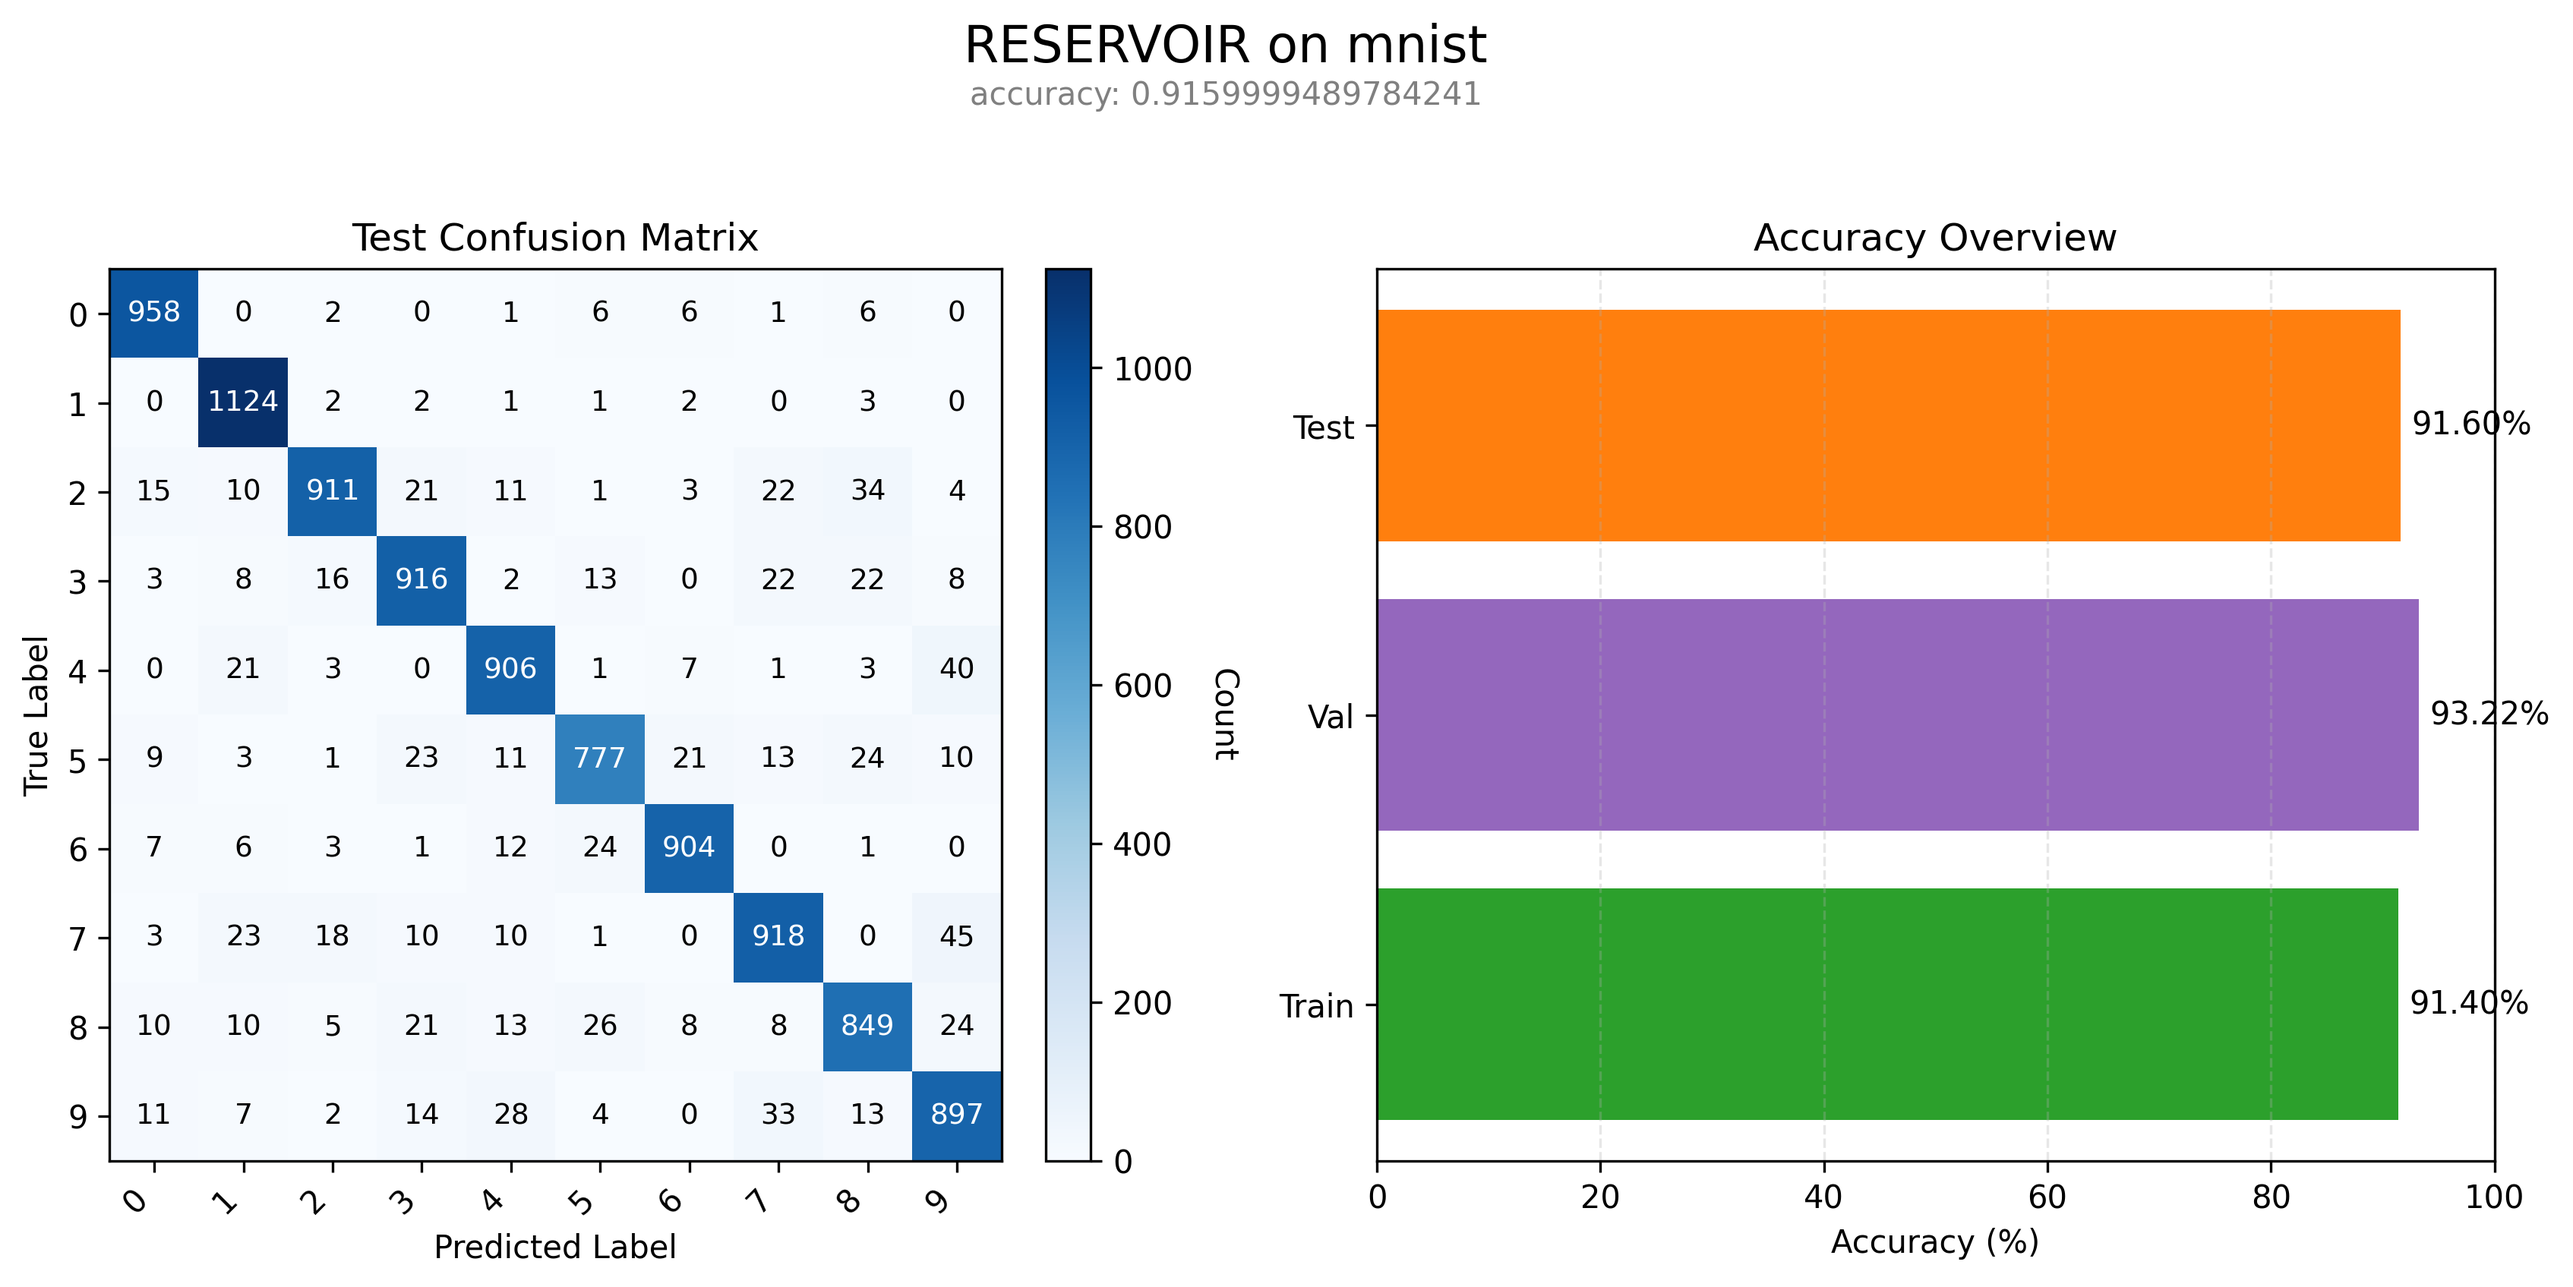
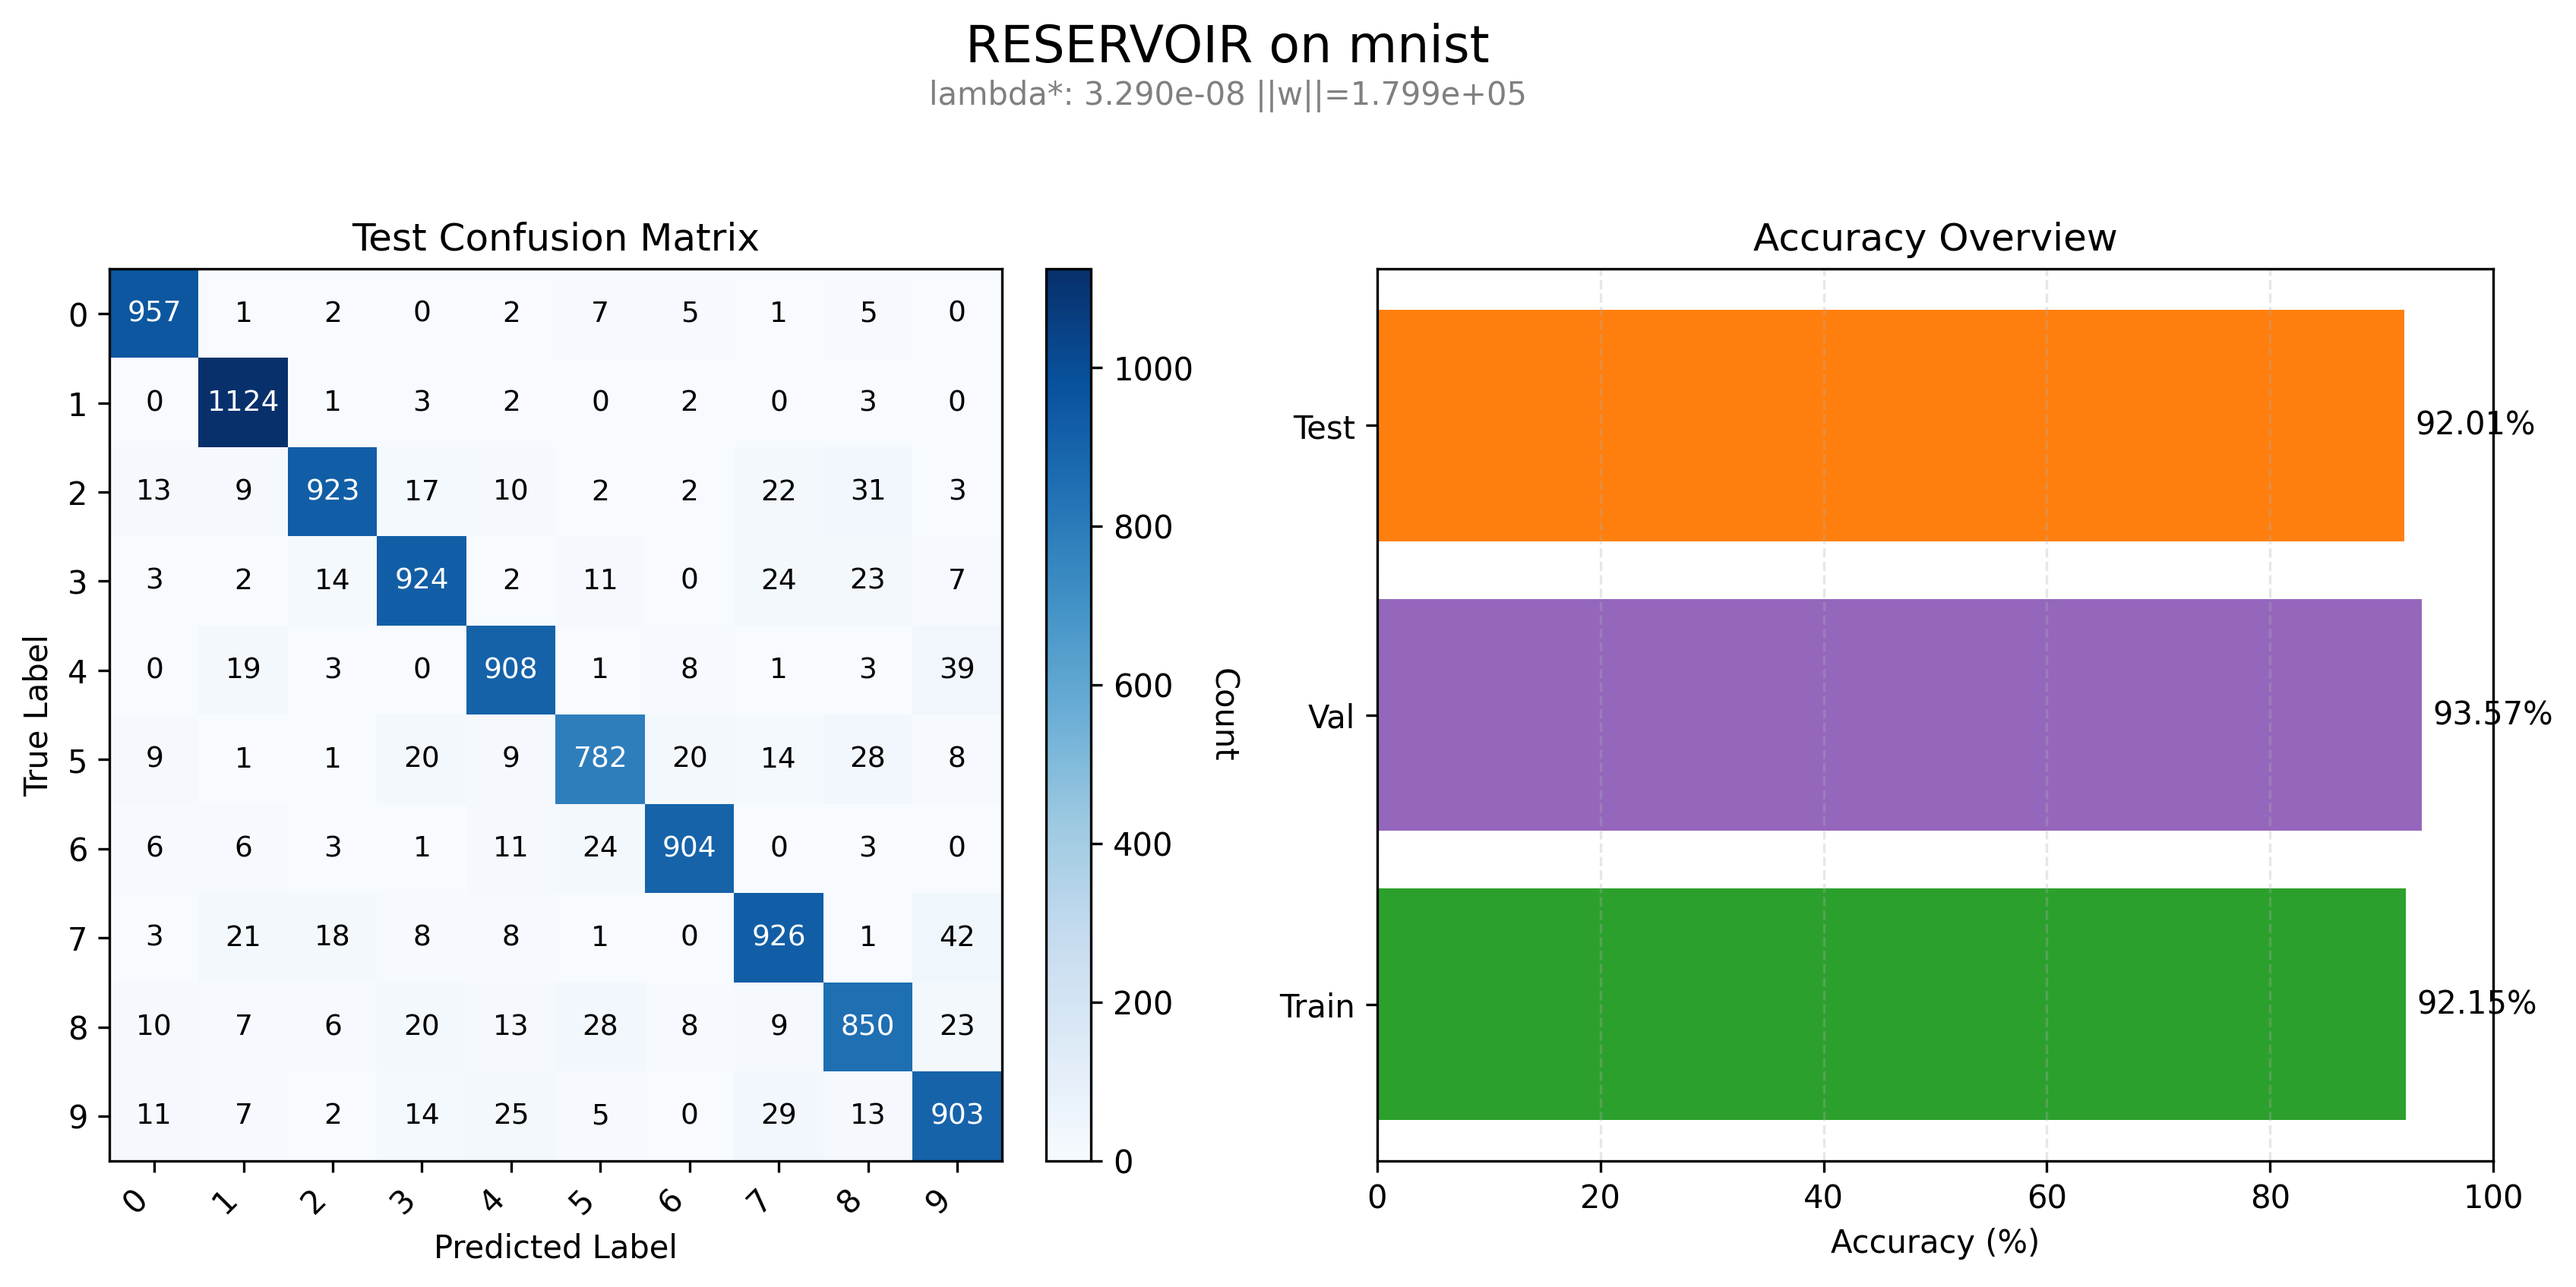
ridge search fixed. with LU solve

diff --git a/src/reservoir/components/readout/ridge.py b/src/reservoir/components/readout/ridge.py
@@ -79,9 +79,37 @@ class RidgeRegression(ReadoutModule):
         eye = jnp.eye(XtX.shape[0], dtype=XtX.dtype)
 
         def solve_lambda(lam: jnp.ndarray) -> jnp.ndarray:
-            return jax.scipy.linalg.solve(XtX + lam * eye, Xty, assume_a="pos")
+            # ラムダが小さすぎる場合は pinv (擬似逆行列) を使うロジックを追加
+            # あるいは、try-except的な動きをさせる
 
-        weights_all = jax.vmap(solve_lambda, in_axes=0, out_axes=0)(lambdas_arr)
+            # 方法A: 条件分岐 (JAXのjit内だとifは使えないので、whereを使うか、Pythonループならifが使える)
+            # 今回はPythonループに変更したので if が使えます
+            lam_val = float(lam)
+            if lam_val < 1e-7:  # 閾値は適宜調整
+                # 正則化なしに近い場合は擬似逆行列で解く（安定するが遅い）
+                # XtX + lam*I の逆行列ではなく、Xそのもののpinvを使うのが一般的ですが
+                # ここでは簡易的に「解けなかったら0」や「コレスキー分解失敗回避」などを想定します
+
+                # JAXで最も安定しているのは jnp.linalg.solve (LU分解) ですが
+                # 特異行列には pinv が最強です。ただし pinv は (XtX) ではなく X に対して行うのが普通です。
+
+                # 簡易対策: Cholesky(pos) ではなく LU分解(solve) を試す
+                return jax.scipy.linalg.solve(XtX + lam * eye, Xty)  # assume_a="pos" を外す
+            else:
+                return jax.scipy.linalg.solve(XtX + lam * eye, Xty, assume_a="pos")
+
+
+        # --- 【修正前】 vmapで一括解決 ---
+        # weights_all = jax.vmap(solve_lambda, in_axes=0, out_axes=0)(lambdas_arr)
+
+        # --- 【修正後】 Pythonループで1つずつ解く ---
+        weights_list = []
+        for lam in lambdas_arr:
+            # 1つ解く -> メモリ解放 を繰り返すことでピークメモリを抑える
+            w = solve_lambda(lam)
+            weights_list.append(w)
+
+        weights_all = jnp.stack(weights_list)
         preds_all = jnp.einsum("nd,kdo->kno", X_val, weights_all)
 
         if metric == "accuracy":
@@ -110,34 +138,6 @@ class RidgeRegression(ReadoutModule):
             self.intercept_ = self.intercept_.ravel()
         self.ridge_lambda = best_lambda
         return best_lambda, search_history, weight_norms
-
-    def fit(self, states: jnp.ndarray, targets: jnp.ndarray) -> "RidgeRegression":
-        X_train, y, y_is_1d = self._prepare_xy(states, targets, update_dim=True)
-
-        if self.ridge_lambda < 1e-7: # Moore-Penrose pseudo-inverse
-            w = jnp.linalg.pinv(X_train, rcond=None) @ y
-        else:
-            XT = X_train.T
-            XTX = XT @ X_train
-            XTy = XT @ y
-            diag_idx = jnp.diag_indices(XTX.shape[0])
-            XTX = XTX.at[diag_idx].add(self.ridge_lambda)
-            try: #  ridge regression closed-form solution
-                w = jax.scipy.linalg.solve(XTX, XTy, assume_a="pos")
-            except Exception: #LU 分解
-                w = jnp.linalg.solve(XTX, XTy)
-
-
-        if self.use_intercept:
-            self.intercept_ = w[0]
-            self.coef_ = w[1:]
-        else:
-            self.intercept_ = jnp.zeros(w.shape[1], dtype=w.dtype)
-            self.coef_ = w
-        if y_is_1d:
-            self.coef_ = self.coef_.ravel()
-            self.intercept_ = self.intercept_.ravel()
-        return self
 
     def predict(self, states: jnp.ndarray) -> jnp.ndarray:
         if self.coef_ is None:

diff --git a/pipelines/run.py b/pipelines/run.py
@@ -522,6 +522,28 @@ def run_pipeline(
                 if val_pred_np.ndim > 1:
                     val_pred_np = np.argmax(val_pred_np, axis=-1)
 
+            selected_lambda = None
+            lambda_norm = None
+            if isinstance(train_res, dict):
+                selected_lambda = train_res.get("best_lambda")
+                weight_norms = train_res.get("weight_norms") or {}
+                if selected_lambda is not None:
+                    lambda_norm = weight_norms.get(selected_lambda)
+                    if lambda_norm is None:
+                        lambda_norm = weight_norms.get(float(selected_lambda))
+            if lambda_norm is None and hasattr(readout, "coef_"):
+                coef_arr = getattr(readout, "coef_", None)
+                if coef_arr is not None:
+                    components = [np.asarray(coef_arr).ravel()]
+                    intercept_arr = getattr(readout, "intercept_", None)
+                    if intercept_arr is not None:
+                        components.append(np.asarray(intercept_arr).ravel())
+                    if components:
+                        stacked = np.concatenate(components)
+                        if stacked.size > 0:
+                            lambda_norm = float(np.linalg.norm(stacked))
+
+            metrics_payload = dict(results.get("test", {})) if isinstance(results, dict) else {}
 
             filename = f"outputs/{dataset_name}/{'_'.join(filename_parts)}_confusion.png"
             plot_classification_results(
@@ -533,7 +555,9 @@ def run_pipeline(
                 val_predictions=val_pred_np,
                 title=f"{model_type.upper()} on {dataset_name}",
                 filename=filename,
-                metrics_info=results.get("test", {}),
+                metrics_info=metrics_payload,
+                best_lambda=selected_lambda,
+                lambda_norm=lambda_norm,
             )
 
     return results

diff --git a/pipelines/plotting.py b/pipelines/plotting.py
@@ -42,8 +42,13 @@ def plot_classification_results(
     class_names: Optional[Sequence[str]] = None,
     val_labels: Optional[np.ndarray] = None,
     val_predictions: Optional[np.ndarray] = None,
+    best_lambda: Optional[float] = None,
+    lambda_norm: Optional[float] = None,
 ) -> None:
-    """Visualize classification results with confusion matrix and accuracy bars, with optional validation."""
+    """
+    Visualize classification results with confusion matrix and accuracy bars, with optional validation.
+    Annotates the selected ridge lambda and weight norm when provided.
+    """
 
     def _to_numpy(array: np.ndarray, dtype: Optional[np.dtype] = None) -> np.ndarray:
         if dtype is None:
@@ -152,9 +157,13 @@ def plot_classification_results(
             fontsize=10,
         )
 
-    if metrics_info:
-        info_text = " | ".join([f"{k}: {v}" for k, v in metrics_info.items()])
-        fig.text(0.5, 0.92, info_text, ha='center', fontsize=10, color='gray')
+    summary_parts = []
+    if best_lambda is not None:
+        lambda_str = f"lambda*: {best_lambda:.3e}"
+        norm_str = f" ||w||={float(lambda_norm):.3e}" if lambda_norm is not None else ""
+        summary_parts.append(lambda_str + norm_str)
+    if summary_parts:
+        fig.text(0.5, 0.92, " | ".join(summary_parts), ha='center', fontsize=10, color='gray')
 
     fig.suptitle(title, fontsize=16)
     fig.tight_layout(rect=(0, 0.05, 1, 0.92))

diff --git a/src/reservoir/training/presets.py b/src/reservoir/training/presets.py
@@ -11,7 +11,7 @@ from __future__ import annotations
 
 from dataclasses import dataclass, field
 from typing import Any, Dict, List
-
+import numpy as np
 from reservoir.core.presets import PresetRegistry
 
 
@@ -31,7 +31,7 @@ class TrainingConfig:
     ridge_lambda: float = 1e-7 # no use but needed for type consistency
     # Defines the search space for validation. Defaults to a log-spaced range around typical values.
     ridge_lambdas: List[float] = field(
-        default_factory=lambda: [1e-10, 1e-9, 1e-8, 1e-7, 1e-6, 1e-5, 1e-4, 1e-3, 1e-2, 1e-1, 1e0, 1e1, 1e2, 1e3]
+        default_factory=lambda: np.logspace(-9, -5, 30).tolist()
     )
 
     # Data Splitting //TODO test is already defined at MNIST so what gives test_ratio?
